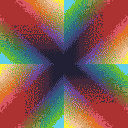
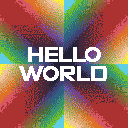
Updated camera system

Changed region(s): [[0.125, 0.3438, 0.8438, 0.6562]]

diff --git a/Demo/src/Demo_Scene.cpp b/Demo/src/Demo_Scene.cpp
@@ -3,7 +3,10 @@
 void Demo_Scene::OnLoad() {
     tex_background = LoadTexture("./res/tex/bg_clouds.png");
 
-    lay_background = new GalaEngine::BackgroundLayer(1024, 576, tex_background);
+    scene->mainCamera.position  = {0.0f, 0.0f};
+    scene->mainCamera.size      = {1024.0f, 576.0f};
+
+    lay_background = new GalaEngine::BackgroundLayer(1024 * 2, 576 * 2, tex_background);
     lay_background->scrollSpeed = {64.0f, 24.0f};
 
     scene->PushLayer(lay_background);
@@ -32,7 +35,7 @@ void Demo_Scene::OnLoad() {
         0x00, 0x00, 0x00, 0x00, 0x00, 0x00, 0x00, 0x00, 0x00, 0x00, 0x00, 0x00, 0x00, 0x00, 0x00, 0x00, 0x00, 0x00, 0x00, 0x00, 0x00, 0x00, 0x00, 0x00, 0x00, 0x00, 0x00, 0x00, 0x00, 0x00, 0x00, 0x00,
     };
 
-    lay_tiles = new GalaEngine::TileLayer(ts_test, tiles, 32, 18, 1024, 576);
+    lay_tiles = new GalaEngine::TileLayer(ts_test, tiles, 32, 18);
 
     scene->PushLayer(lay_tiles);
 }
@@ -40,23 +43,34 @@ void Demo_Scene::OnLoad() {
 void Demo_Scene::OnDraw() {
     scene->RenderLayers();
 
-    window->surface.DrawText(
-        std::to_string(lay_tiles->surface->texture.texture.width) + ", " + 
-        std::to_string(lay_tiles->surface->texture.texture.height), 0, 32, 20, C_BLACK);
     window->surface.DrawText("FPS: " + std::to_string(1.0f / GetFrameTime()), 8.0f, 8.0f, 20, Colours::GalaBlack);
+
+    window->surface.DrawText(
+        "TileLayer size: " +
+        std::to_string(lay_tiles->surface->texture.texture.width) + ", " + 
+        std::to_string(lay_tiles->surface->texture.texture.height) + "\n" +
+        "Camera position: " + std::to_string(scene->mainCamera.position.x) + ", " + std::to_string(scene->mainCamera.position.y) + "\n" +
+        "Camera size:     " + std::to_string(scene->mainCamera.size.x) + ", " + std::to_string(scene->mainCamera.size.y),
+        8, 32, 20, C_BLACK);
 }
 
 void Demo_Scene::OnUpdate() {
     if(IsKeyDown(KEY_UP)) {
-        lay_background->scale.y += GetFrameTime();
+        scene->mainCamera.position.y -= 512.0f * GetFrameTime();
     }else if(IsKeyDown(KEY_DOWN)) {
-        lay_background->scale.y -= GetFrameTime();
+        scene->mainCamera.position.y += 512.0f * GetFrameTime();
     }
 
     if(IsKeyDown(KEY_LEFT)) {
-        lay_background->scale.x -= GetFrameTime();
+        scene->mainCamera.position.x -= 512.0f * GetFrameTime();
     }else if(IsKeyDown(KEY_RIGHT)) {
-        lay_background->scale.x += GetFrameTime();
+        scene->mainCamera.position.x += 512.0f * GetFrameTime();
+    }
+
+    if(IsKeyDown(KEY_RIGHT_BRACKET)) {
+        scene->mainCamera.size = Vector2Add(scene->mainCamera.size, {16.0f, 9.0f});
+    }else if(IsKeyDown(KEY_LEFT_BRACKET)) {
+        scene->mainCamera.size = Vector2Subtract(scene->mainCamera.size, {16.0f, 9.0f});
     }
 }
 

diff --git a/Engine/src/TileLayer.cpp b/Engine/src/TileLayer.cpp
@@ -38,9 +38,7 @@ void GalaEngine::TileLayer::OnUpdate() {
 }
 
 void GalaEngine::TileLayer::OnDraw(GalaEngine::Camera camera) {
-    surface->DrawTexture(
-        texture, 0, 0
-    );
+    surface->DrawTexture(texture, 0, 0);
 }
 
 void GalaEngine::TileLayer::OnDestroy() {
@@ -49,9 +47,8 @@ void GalaEngine::TileLayer::OnDestroy() {
 
 GalaEngine::TileLayer::TileLayer(
     Tileset tileset, std::vector<uint16_t> tiles,
-    int tilesX, int tilesY,
-    int surfaceWidth, int surfaceHeight
-): Layer(surfaceWidth, surfaceHeight, C_CLEAR) {
+    int tilesX, int tilesY
+): Layer(tileset.tileSize * tilesX, tileset.tileSize * tilesY, C_CLEAR) {
     this->tileset = tileset;
     this->tiles = tiles;
     this->width = tilesX;

diff --git a/Engine/src/Scene.cpp b/Engine/src/Scene.cpp
@@ -27,12 +27,14 @@ void GalaEngine::Scene::RenderLayers() {
         DrawTexturePro(
             layerTexture,
             Rectangle {
-                0.0f, (float)layerTexture.height,
-                (float)layerTexture.width,
-                -(float)layerTexture.height
+                mainCamera.position.x,
+                layerTexture.height - (mainCamera.size.y + mainCamera.position.y),
+                mainCamera.size.x,
+                -mainCamera.size.y
             },
             Rectangle {
-                0.0f, 0.0f,
+                0.0f,
+                0.0f,
                 (float)targetSurface->texture.texture.width,
                 (float)targetSurface->texture.texture.height
             },

diff --git a/Engine/src/Window.cpp b/Engine/src/Window.cpp
@@ -32,12 +32,14 @@ void GalaEngine::Window::Render() {
     DrawTexturePro(
         surface.texture.texture,
         Rectangle {
-            0.0f, (float)surface.texture.texture.height,
+            0.0f,
+            (float)surface.texture.texture.height,
             (float)surface.texture.texture.width,
             -(float)surface.texture.texture.height
         },
         Rectangle {
-            0.0f, 0.0f,
+            0.0f,
+            0.0f,
             (float)GetWidth(),
             (float)GetHeight()
         },

diff --git a/Engine/src/Surface.cpp b/Engine/src/Surface.cpp
@@ -228,7 +228,9 @@ void GalaEngine::Surface::DrawTexture(Texture texture, int x, int y, float scale
 }
 
 void GalaEngine::Surface::DrawTexture(Texture texture, int x, int y, float scaleX, float scaleY, float rotation, Colour blendColour) {
+    BeginTextureMode(this->texture);
     DrawTexture(texture, x, y, scaleX, scaleY, rotation, {0.0f, 0.0f}, blendColour);
+    EndTextureMode();
 }
 
 void GalaEngine::Surface::DrawTexture(Texture texture, Rectangle src, Rectangle dest, Colour blendColour) {

diff --git a/Engine/include/GalaEngine/TileLayer.hpp b/Engine/include/GalaEngine/TileLayer.hpp
@@ -23,7 +23,7 @@ namespace GalaEngine {
             void OnDraw(GalaEngine::Camera camera);
             void OnDestroy();
 
-            TileLayer(Tileset tileset, std::vector<uint16_t> tiles, int tilesX, int tilesY, int surfaceWidth, int surfaceHeight);
+            TileLayer(Tileset tileset, std::vector<uint16_t> tiles, int tilesX, int tilesY);
             TileLayer();
     };
 }
